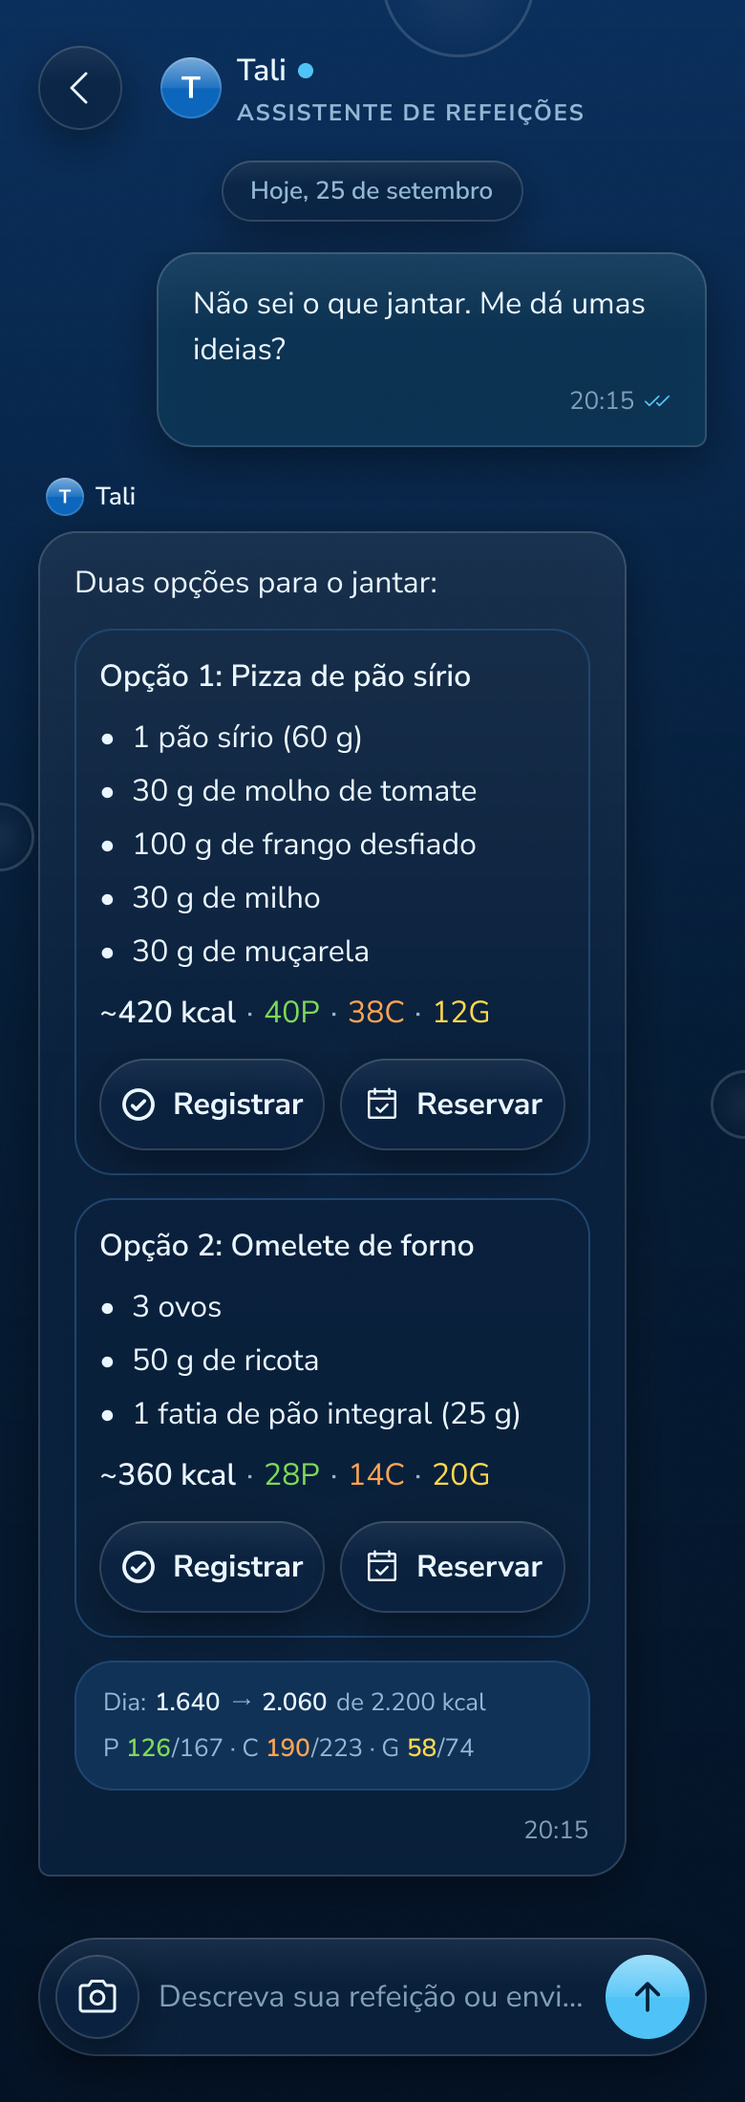
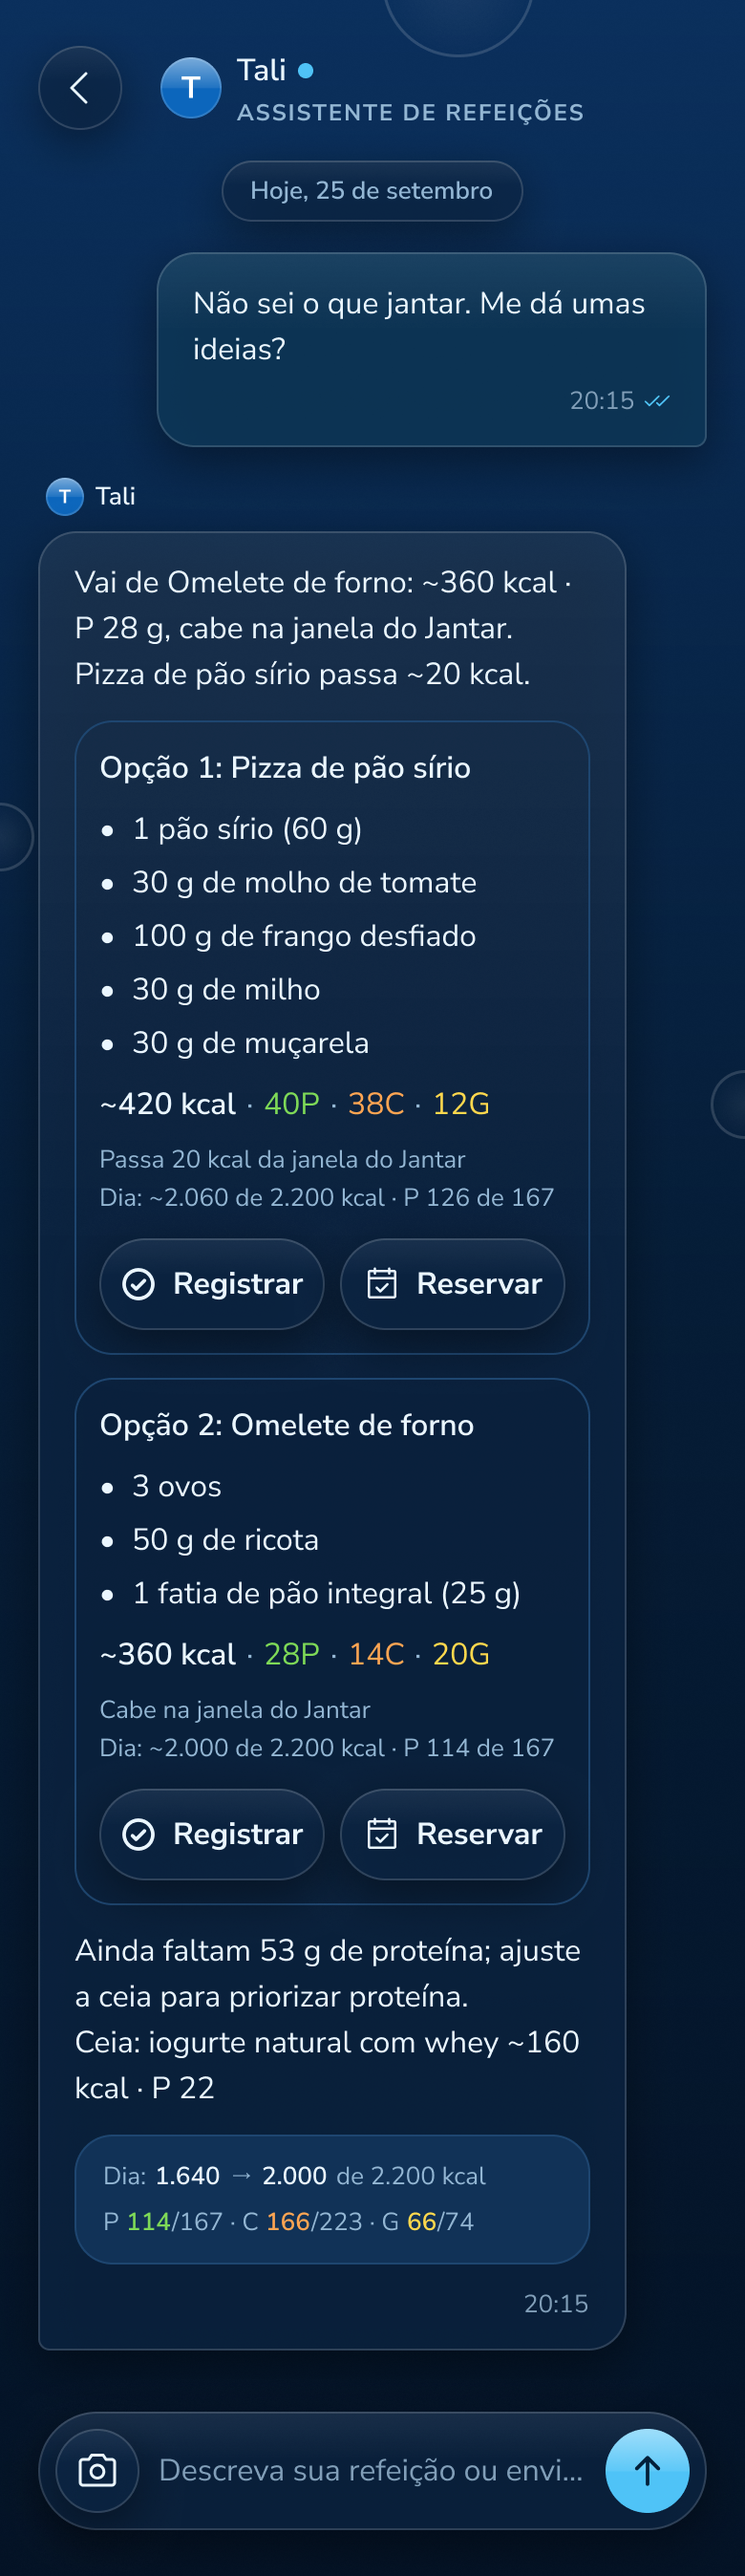
docs(design): D26 owner OK, chatO gold exported, plan closed

diff --git a/docs/design/plans/completed/d26-release-2-option-decision.md b/docs/design/plans/completed/d26-release-2-option-decision.md
@@ -1,10 +1,10 @@
 # Plan — D26 Release 2: Decision line and per-option fit in the plan bubble
 
-- Status: Pendente aprovação manual
+- Status: Concluído (09/10/2026)
 - Date: 09/10/2026
 - Owning context: `design`
 - Affected code: none in `apps/` or `server/`. Figma `Design` → `Release 2` → section "Opções" (frame `chatO` redrawn), the option component in `Componentes` extended. Repository: `docs/qa/figma/{dark,light}/chatO.png` and the node ids in `tools/export-figma.mjs`.
-- Prerequisites: D25 `Concluído` ([history](../completed/)); [ADR-056](../../../produto/adrs/ADR-056-plan-decision-line-and-option-budget.md) accepted with [S39](../../../server/plans/pending_manual_validation/s39-plan-decision-line-and-option-budget.md).
+- Prerequisites: D25 `Concluído` ([history](./)); [ADR-056](../../../produto/adrs/ADR-056-plan-decision-line-and-option-budget.md) accepted with [S39](../../../server/plans/pending_manual_validation/s39-plan-decision-line-and-option-budget.md).
 - Figma MCP budget: ≤ 30 calls (at most 120 a day, ADR-031 § 6).
 
 Authorization, lifecycle, cancellation and deferral: `docs/sdd/README.md`. Approval: `Aprovo o plano docs/design/plans/d26-release-2-option-decision.md. Implemente o plano aprovado.`
@@ -78,4 +78,14 @@ Figma MCP budget: 7 of 30 calls (whoami, 3 skill reads, 1 read, 2 writes with re
 
 ### Owner review
 
-<Pending: the owner's OK in Figma, section `Opções · D25–D26` on `Release 2`.>
+**OK (09/10/2026)** on the first round, with no fixes ("Aprovado, pode exportar e concluir o plano").
+
+### Export (09/10/2026)
+
+- `tools/export-figma.mjs`: `chatO` Dark now `205:8286` (the reclone); Light unchanged `202:753`.
+- `node tools/export-figma.mjs --only chatO`: 780 × 2200 → 780 × 2696 (both themes). The inventory id is unchanged.
+- `node tools/check-figma.mjs`: 108 golds verified (54 dark + 54 light). `node tools/check-docs.mjs` passes.
+- Gold check of the current app (no `apps/` change; `GoldTest.chatO*`, run with `--rerun`): both fail by design, the app does not draw the decision line, the fit and day lines or the trailing text yet (Dark blurred 9.66 %, ink 0.76; Light blurred 9.79 %, ink 0.86).
+- **Hand-over to [A70](../../../android/plans/a70-option-fit-and-projection.md):** the lead/trailing split, the `Fit` and `Day` lines under each option's totals, the day panel on the chosen option and the `chatO` captures. Until A70, `GoldTest.chatO_dark` and `chatO_light` fail; a client plan that runs before A70 needs a temporary exception there (owner decision).
+
+Figma MCP budget: 7 of 30 calls in total (no call after the review: the export uses the REST API).

diff --git a/docs/android/plans/a70-option-fit-and-projection.md b/docs/android/plans/a70-option-fit-and-projection.md
@@ -4,7 +4,7 @@
 - Date: 09/10/2026
 - Owning context: `android`
 - Affected code: `apps/android/` only: plan bubble with options (`ChatViewModel` option views and text split, `ChatScreen` option block, `ChatUiState`), `PlanBudget` on the chosen option, `DayBalance` projection per option, `tools/fake-chat-server.mjs` mode, `tools/capture-chat.sh` scene, tests, captures.
-- Prerequisites: [S39](../../server/plans/pending_manual_validation/s39-plan-decision-line-and-option-budget.md) on the dev server; [A67](pending_manual_validation/a67-plan-options-and-discovery.md) delivered; [D26](../../design/plans/pending_manual_validation/d26-release-2-option-decision.md) `Concluído` (gold `chatO` redrawn).
+- Prerequisites: [S39](../../server/plans/pending_manual_validation/s39-plan-decision-line-and-option-budget.md) on the dev server; [A67](pending_manual_validation/a67-plan-options-and-discovery.md) delivered; [D26](../../design/plans/completed/d26-release-2-option-decision.md) `Concluído` (gold `chatO` redrawn).
 - Related documentation: [ADR-056](../../produto/adrs/ADR-056-plan-decision-line-and-option-budget.md), [ADR-039](../../produto/adrs/ADR-039-plan-cooking-and-budget-choice.md), [ADR-051](../../produto/adrs/ADR-051-plan-option-identity-and-chat-discovery.md), [product Chat](../../produto/specifications/chat.md), [HTTP contract](../../api-contract.md).
 
 Authorization and delivery follow [SDD](../../sdd/README.md). Approval: `Aprovo o plano docs/android/plans/a70-option-fit-and-projection.md. Implemente o plano aprovado.`
@@ -30,7 +30,7 @@ The plan bubble shows the decision and, under each option, whether it fits the w
 
 ## Out of scope
 
-- The server rules and arithmetic ([S39](../../server/plans/pending_manual_validation/s39-plan-decision-line-and-option-budget.md)); the gold ([D26](../../design/plans/pending_manual_validation/d26-release-2-option-decision.md)); a projection of the remaining meals (the closing lines cover them); any change to Registrar, Reservar or the receipts.
+- The server rules and arithmetic ([S39](../../server/plans/pending_manual_validation/s39-plan-decision-line-and-option-budget.md)); the gold ([D26](../../design/plans/completed/d26-release-2-option-decision.md)); a projection of the remaining meals (the closing lines cover them); any change to Registrar, Reservar or the receipts.
 
 ## Validation
 

diff --git a/docs/produto/adrs/ADR-056-plan-decision-line-and-option-budget.md b/docs/produto/adrs/ADR-056-plan-decision-line-and-option-budget.md
@@ -69,6 +69,6 @@ Rejected: the choice between two dishes needs the model's judgment about protein
 
 - Affected specifications: [v1-chat](../../server/specifications/v1-chat.md), [HTTP contract](../../api-contract.md), [product Chat](../specifications/chat.md).
 - Related ADRs: [ADR-033](../../content-policy/adrs/ADR-033-global-chat-example-provenance.md), [ADR-039](ADR-039-plan-cooking-and-budget-choice.md), [ADR-043](ADR-043-plan-objective-protein-and-meal-window.md), [ADR-044](ADR-044-assistant-tone-and-closures.md), [ADR-047](ADR-047-skips-alongside-other-actions.md), [ADR-051](ADR-051-plan-option-identity-and-chat-discovery.md), [ADR-052](ADR-052-saved-recipes.md).
-- Consuming contexts: [server](../../server/README.md) ([S39](../../server/plans/pending_manual_validation/s39-plan-decision-line-and-option-budget.md)), [android](../../android/README.md) ([A70](../../android/plans/a70-option-fit-and-projection.md)), [design](../../design/README.md) ([D26](../../design/plans/pending_manual_validation/d26-release-2-option-decision.md)).
+- Consuming contexts: [server](../../server/README.md) ([S39](../../server/plans/pending_manual_validation/s39-plan-decision-line-and-option-budget.md)), [android](../../android/README.md) ([A70](../../android/plans/a70-option-fit-and-projection.md)), [design](../../design/README.md) ([D26](../../design/plans/completed/d26-release-2-option-decision.md)).
 
 Depois de aceito, o corpo deste ADR não se edita. Só a linha `- Status:` muda, para registrar substituição total ou parcial por um ADR novo.

diff --git a/docs/design/plans/README.md b/docs/design/plans/README.md
@@ -170,7 +170,7 @@ Behavior: [ADR-056](../../produto/adrs/ADR-056-plan-decision-line-and-option-bud
 | Step | Plan | Depends on |
 |---|---|---|
 | Server | [S39](../../server/plans/pending_manual_validation/s39-plan-decision-line-and-option-budget.md) — decision line, budget on the chosen option | S37, S38 on dev |
-| Design | [D26](pending_manual_validation/d26-release-2-option-decision.md) — decision line and per-option fit (`chatO` redrawn) | D25, ADR-056 accepted (S39) |
+| Design | D26 — decision line and per-option fit (`chatO` redrawn), delivered ([history](completed/)) | D25, ADR-056 accepted (S39) |
 | Client | [A70](../../android/plans/a70-option-fit-and-projection.md) — fit and day lines per option | D26, S39 on dev, A67 |
 
 ## History

diff --git a/docs/server/plans/pending_manual_validation/s39-plan-decision-line-and-option-budget.md b/docs/server/plans/pending_manual_validation/s39-plan-decision-line-and-option-budget.md
@@ -47,7 +47,7 @@ A plan with options opens with the decision and the numbers that support it, com
 
 ## Out of scope
 
-- The app rendering (fit lines, projection, lead/trailing split): [A70](../../../android/plans/a70-option-fit-and-projection.md); the `chatO` gold: [D26](../../../design/plans/pending_manual_validation/d26-release-2-option-decision.md).
+- The app rendering (fit lines, projection, lead/trailing split): [A70](../../../android/plans/a70-option-fit-and-projection.md); the `chatO` gold: [D26](../../../design/plans/completed/d26-release-2-option-decision.md).
 - Model arithmetic in the reply (ADR-039/042 stand), model or effort change (ADR-054), a projection of the remaining meals beyond the closing lines.
 
 ## Validation
